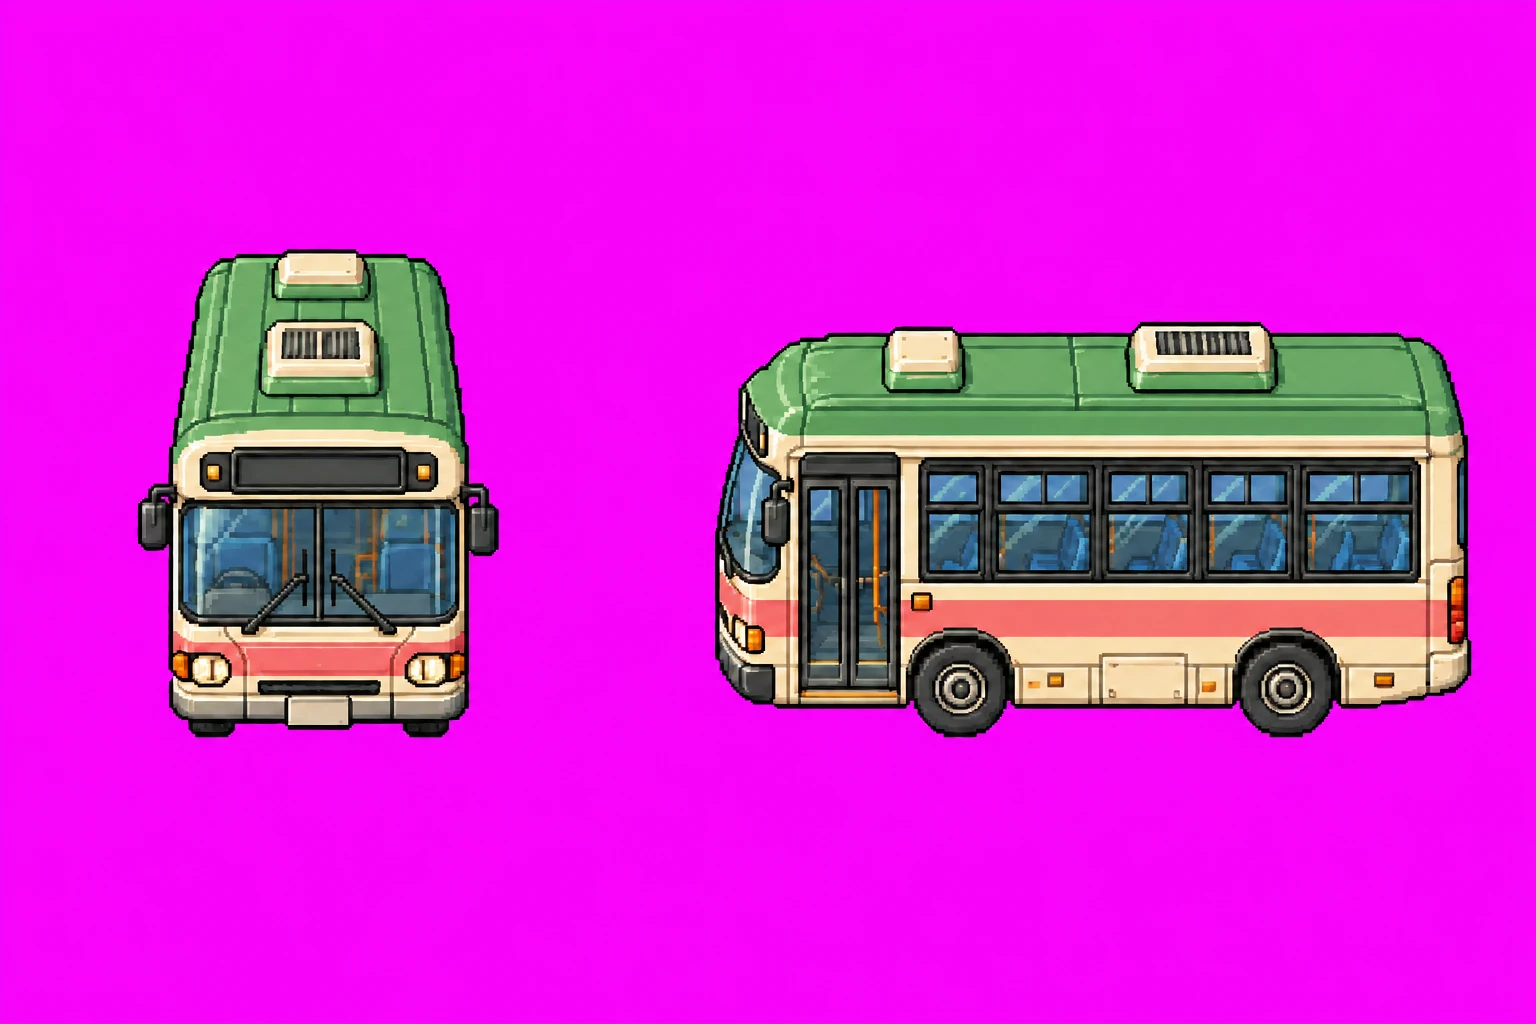
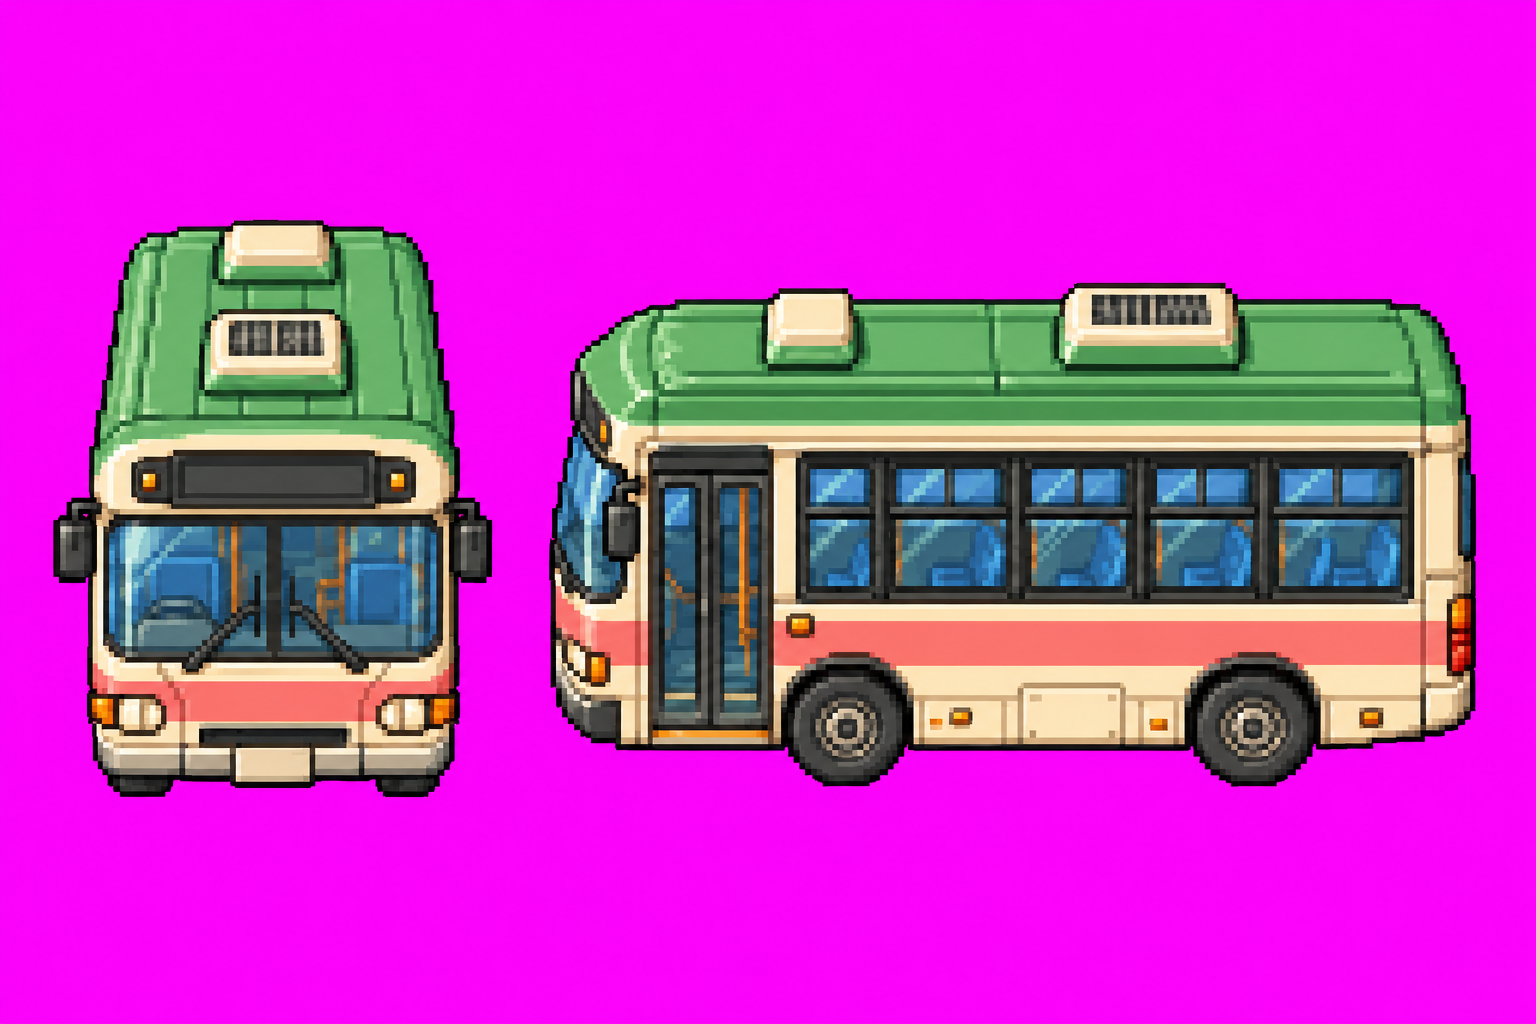
Bus: new bus sprites (front and side) from the delivered sheet
Claude-Session: https://claude.ai/code/session_01U4DUv6fKcQMDCzCJbpSW7Y

diff --git a/tools/build_bus.py b/tools/build_bus.py
@@ -1,0 +1,39 @@
+"""
+Bus sprites from art/sheets/hm_bus.webp (front view left, side view right, on magenta).
+
+Writes public/assets/bus_front.png (map: bus pulling up at the stop) and bus_side.png (expressway ride scene).
+Run: python3 tools/build_bus.py
+"""
+import os
+
+import numpy as np
+from PIL import Image
+from scipy import ndimage
+
+ROOT = os.path.dirname(os.path.dirname(os.path.abspath(__file__)))
+OUT = os.path.join(ROOT, 'public', 'assets')
+
+
+def cut(img, box, width):
+    a = np.array(img.crop(box).convert('RGB')).astype(int)
+    d = np.abs(a - np.array([255, 0, 255])).sum(axis=2)
+    keep = ndimage.binary_opening(d > 150, iterations=1)
+    lab, n = ndimage.label(keep)
+    if n > 1:  # keep the biggest blob only
+        sizes = ndimage.sum(keep, lab, range(1, n + 1))
+        keep = lab == (1 + int(np.argmax(sizes)))
+    keep = ndimage.binary_fill_holes(keep)
+    rgba = np.dstack([a.astype('uint8'), (keep * 255).astype('uint8')])
+    im = Image.fromarray(rgba, 'RGBA')
+    im = im.crop(im.getbbox())
+    return im.resize((width, round(im.height * width / im.width)), Image.LANCZOS)
+
+
+def main():
+    sheet = Image.open(os.path.join(ROOT, 'art', 'sheets', 'hm_bus.webp')).convert('RGB')
+    cut(sheet, (0, 0, 540, 1024), 72).save(os.path.join(OUT, 'bus_front.png'))
+    cut(sheet, (540, 0, 1536, 1024), 480).save(os.path.join(OUT, 'bus_side.png'))
+
+
+if __name__ == '__main__':
+    main()
